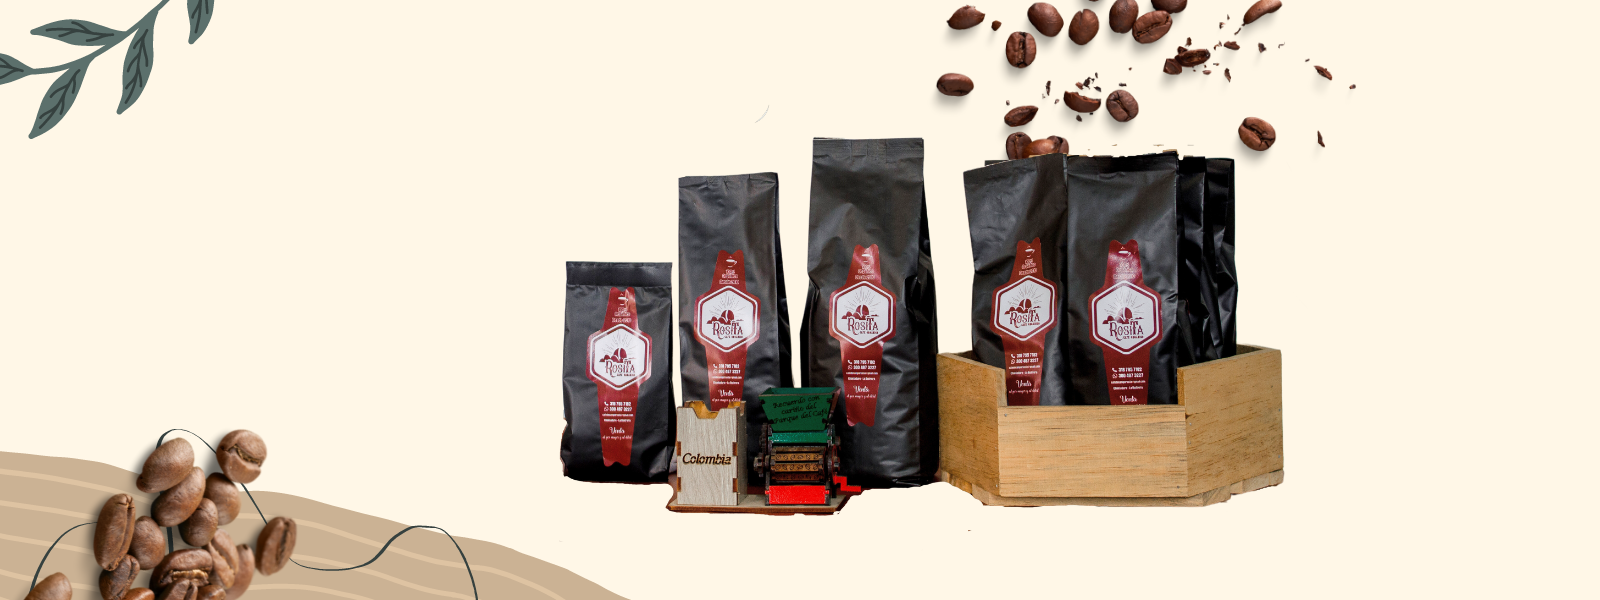
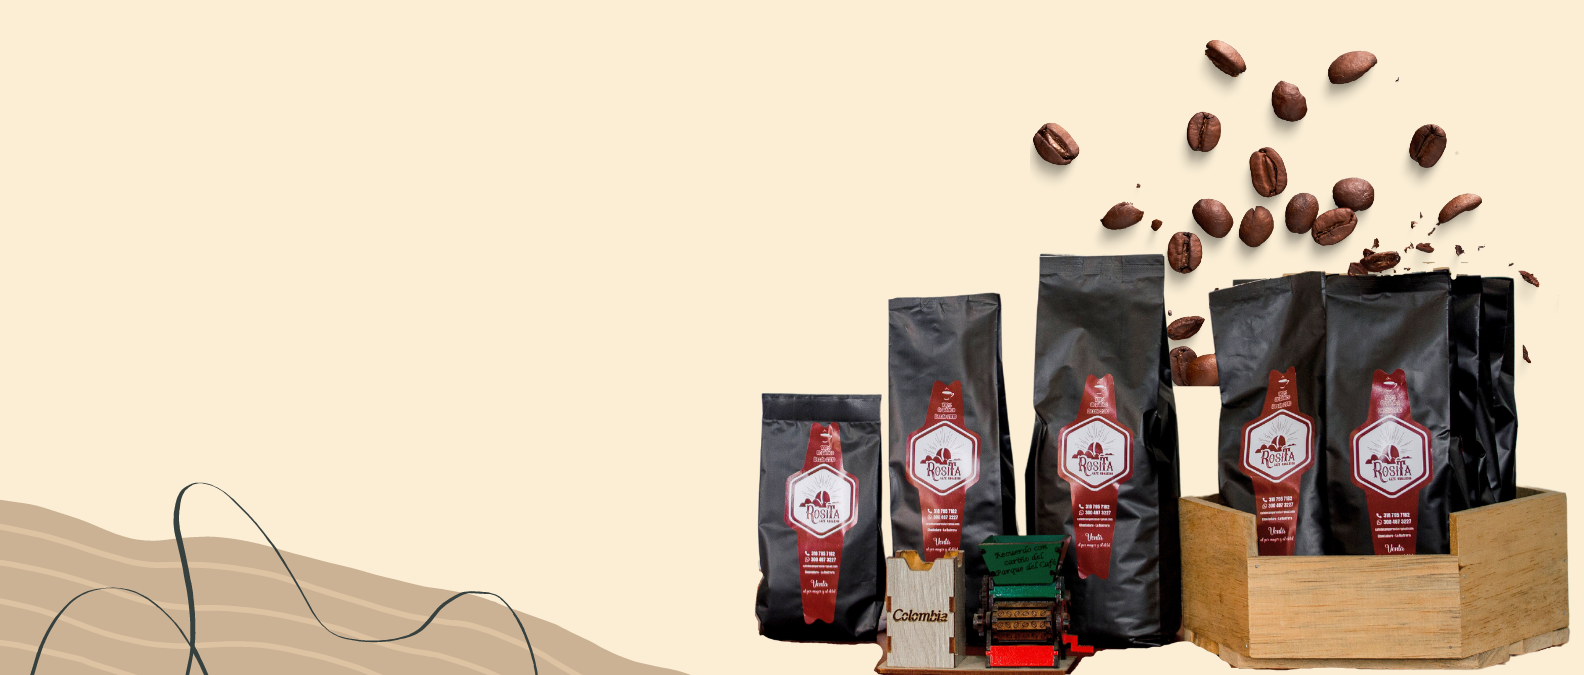
feat: Cambios en Pagos y Ux/Ui

diff --git a/src/app/protected/admin/statistic/pages/statistics/statistics.component.html b/src/app/protected/admin/statistic/pages/statistics/statistics.component.html
@@ -1,28 +1,33 @@
 
-  <div class="row g-4 mt-4 justify-content-around">
-    <div class="col-xs-12 col-sm-12 col-md-4 mb-3">
-      <mat-card class="example-card">
-        <mat-card-header class="justify-content-center">
-          <mat-card-title>Ganancias y Pérdidas</mat-card-title>
-        </mat-card-header>
-        <img mat-card-image class="mx-auto d-block statistic-image" src="assets/Ganancias.jpeg">
-        <mat-card-actions class="d-grid gap-2 col-6 mx-auto">
-          <button mat-raised-button (click)="navigateUrl('ganancias-perdidas')" class="mt-2 mb-2">Ingresar</button>
-        </mat-card-actions>
-      </mat-card>
+  <div class="row mt-4 justify-content-center"></div>
+    <div class="col-xs-12 col-sm-12 col-md-6 mb-3">
+      <div class="row justify-content-center">
+        <mat-card class="example-card">
+          <mat-card-header class="justify-content-center">
+            <mat-card-title>Ganancias y Pérdidas</mat-card-title>
+          </mat-card-header>
+          <img mat-card-image class="mx-auto d-block statistic-image" src="assets/Ganancias.jpeg" style="max-width: 100%; height: auto;">
+          <mat-card-actions class="d-grid gap-2 col-6 mx-auto">
+            <button mat-raised-button (click)="navigateUrl('ganancias-perdidas')" class="mt-2 mb-2">Ingresar</button>
+          </mat-card-actions>
+        </mat-card>
+      </div>
     </div>
-    <div class="col-xs-12 col-sm-12 col-md-3 mb-3">
-      <mat-card class="example-card">
-      <mat-card-header class="justify-content-center">
-          <mat-card-title>Total de Ventas</mat-card-title>
-        </mat-card-header>
-        <img mat-card-image class="mx-auto d-block statistic-image" src="assets/amoung.png">
-        <mat-card-actions class="d-grid gap-2 col-6 mx-auto">
-          <button mat-raised-button (click)="navigateUrl('total-ventas')" class="mt-2 mb-2">Ingresar</button>
-        </mat-card-actions>
-      </mat-card>
+    <div class="col-xs-12 col-sm-12 col-md-6 mb-3">
+      <div class="row justify-content-center">
+        <mat-card class="example-card">
+          <mat-card-header class="justify-content-center">
+            <mat-card-title>Total de Ventas</mat-card-title>
+          </mat-card-header>
+          <img mat-card-image class="mx-auto d-block statistic-image" src="assets/amoung.png" style="max-width: 100%; height: auto;">
+          <mat-card-actions class="d-grid gap-2 col-6 mx-auto">
+            <button mat-raised-button (click)="navigateUrl('total-ventas')" class="mt-2 mb-2">Ingresar</button>
+          </mat-card-actions>
+        </mat-card>
+      </div>
     </div>
-    <div class="col-xs-12 col-sm-12 col-md-3 mb-3">
+ 
+    <!-- <div class="col-xs-12 col-sm-12 col-md-3 mb-3">
       <mat-card class="example-card">
         <mat-card-header class="justify-content-center">
           <mat-card-title>Productos Más Vendidos</mat-card-title>
@@ -31,6 +36,6 @@
         <mat-card-actions class="d-grid gap-2 col-6 mx-auto">
           <button mat-raised-button (click)="navigateUrl('productos-vendidos')" class="mt-2 mb-2">Ingresar</button>
         </mat-card-actions>
-      </mat-card>
-    </div>
-  </div>
+      </mat-card> -->
+    
+

diff --git a/src/app/auth/pages/register/register.component.ts b/src/app/auth/pages/register/register.component.ts
@@ -36,6 +36,50 @@ export class RegisterComponent {
     return ValidateFields.errorMsg(this.noValidField(field), this.miFormulario, field, namefield);
   }
 
+  openTermsModal() {
+    Swal.fire({
+      title: 'Términos y Condiciones',
+      html: `
+      <div style="max-height: 400px; overflow-y: auto;">
+        <p>1. Introducción</p>
+        <p>Al registrarte en nuestro sitio web Café Rosita, aceptas cumplir con los siguientes términos y condiciones. Si no estás de acuerdo, por favor, no completes el registro.</p>
+        <p>2. Requisitos de registro</p>
+        <p>Debes ser mayor de 18 años para registrarte.</p>
+        <p>Es necesario proporcionar información válida y actualizada, como tu nombre completo, dirección de correo electrónico y contraseña.</p>
+        <p>Mantén tus credenciales seguras. No nos hacemos responsables de accesos no autorizados a tu cuenta por compartir tu contraseña con terceros.</p>
+        <p>3. Uso de datos personales</p>
+        <p>Los datos proporcionados serán tratados según nuestra Política de Privacidad.</p>
+        <p>Usaremos tus datos para gestionar tu cuenta, procesar tus pedidos, y enviarte información promocional, si así lo autorizas.</p>
+        <p>4. Responsabilidad del usuario</p>
+        <p>Al registrarte, te comprometes a:</p>
+        <ul>
+          <li>No usar el sitio para actividades ilegales.</li>
+          <li>Proporcionar información verdadera y mantenerla actualizada.</li>
+          <li>No crear múltiples cuentas con fines fraudulentos.</li>
+        </ul>
+        <p>5. Derechos de la plataforma</p>
+        <p>Podemos suspender o cancelar tu cuenta si violas estos términos o detectamos actividades sospechosas.</p>
+        <p>Nos reservamos el derecho de realizar cambios en estos términos sin previo aviso. Cualquier cambio será publicado en nuestro sitio web.</p>
+        <p>6. Propiedad intelectual</p>
+        <p>Todo el contenido de Café Rosita es propiedad exclusiva de la empresa. Está prohibido el uso no autorizado.</p>
+        <p>7. Resolución de conflictos</p>
+        <p>Cualquier disputa relacionada con el uso del sitio web será resuelta conforme a las leyes de [tu país].</p>
+        <p>8. Contacto</p>
+        <p>Si tienes dudas, contáctanos en cafedecamporosita@gmail.com o al teléfono 3187957182 - 3004873227.</p>
+      </div>
+      `,
+      icon: 'info',
+      showCancelButton: true,
+      confirmButtonText: 'Aceptar',
+      cancelButtonText: 'Cancelar'
+    }).then((result) => {
+      if (result.isConfirmed) {
+        Swal.fire('Aceptado', 'Has aceptado los términos y condiciones.', 'success');
+      } else {
+        Swal.fire('Cancelado', 'No has aceptado los términos y condiciones.', 'error');
+      }
+    });
+  }
 
   registrar() {
     if (this.miFormulario.valid) {

diff --git a/src/app/protected/order/pages/create/create.component.html b/src/app/protected/order/pages/create/create.component.html
@@ -84,12 +84,13 @@
                 <div class="row g-2 justify-content-center mb-1 mt-1">
                   <label for="inputEmail3" class="col-sm-4 col-form-label">Comprobante</label>
                   <div class="col-sm-7">
-                    <select class="form-control" formControlName="receipt">
-                      <option value="accepted">Aceptar</option>
-                      <option value="denied">Negar</option>
-                    </select>
-                    <button  mat-raised-button color="primary" class="ms-2" style="position: absolute; left: 888px; top: 83px;"><i class="fa fa-download me-1"></i> Ver Documento</button>
-  
+    
+                  <button mat-raised-button color="primary" (click)="confirmReceipt()">
+                    <mat-icon>check_circle</mat-icon>Confirmar</button>
+                   
+                    
+  <button mat-raised-button color="primary" class="ms-2" style="position: absolute; left: 888px; top: 83px;" (click)="downloadImage()">
+    <mat-icon>download</mat-icon>Ver Documento</button>
                   </div>
                 </div>
               </div>

diff --git a/src/app/auth/pages/register/register.component.html b/src/app/auth/pages/register/register.component.html
@@ -1,6 +1,8 @@
 <div class="container mt-5 mb-5">
   <form class="form" [formGroup]="miFormulario" (ngSubmit)="registrar()">
-    <h2 class="form-title">Crear cuenta</h2>
+    <div class="form-title">
+      <img src="assets/logo_cafe_rosita.png" style="width: 210px; height: 90px;">
+    </div>
     <div class="form-container">
       <div class="form-group">
         <input type="text" class="form-input" formControlName="name" [class.is-invalid]="noValidField('name')"
@@ -49,7 +51,7 @@
         </div>
   
       <div class="form-group exception">
-          <input type="checkbox" class="form-check-input" id="exampleCheck1">
+          <input type="checkbox" class="form-check-input" id="exampleCheck1" (click)="openTermsModal()">
           <label class="form-check-label" for="exampleCheck1">Aceptar condiciones y restricciones</label>
       </div>
         <button type="submit" class="form-submit exception" [disabled]="miFormulario.invalid">Registrarse</button>

diff --git a/src/app/protected/order/pages/create/create.component.ts b/src/app/protected/order/pages/create/create.component.ts
@@ -39,6 +39,30 @@ export class CreateComponent implements OnInit {
 
   }
 
+  downloadImage() {
+    const link = document.createElement('a');
+    link.href = 'assets/comprobante_img.jpg';
+    link.download = 'comprobante_img.jpg';
+    link.click();
+  }
+
+  confirmReceipt(){
+    Swal.fire({
+      title: '¿Estás seguro?',
+      text: "¿Estás seguro de confirmar este comprobante?",
+      icon: 'warning',
+      showCancelButton: true,
+      confirmButtonColor: '#3085d6',
+      cancelButtonColor: '#d33',
+      confirmButtonText: 'Sí, confirmar'
+    }).then((result) => {
+      if (result.isConfirmed) {
+        Swal.fire(  '¡Confirmado!', 'El comprobante ha sido confirmado.', 'success');
+      }
+    });
+
+  }
+
   ngOnInit() {
     this.showCustomer = this.authService.user.rol! === 'cliente' ? false : true;
     if (this.router.url.includes('ver')) {

diff --git a/src/app/auth/pages/login/login.component.html b/src/app/auth/pages/login/login.component.html
@@ -1,7 +1,9 @@
 
 <div class="container mt-5 mb-5">
   <form class="form" (ngSubmit)="login()" [formGroup]="miFormulario">
-    <h2 class="form-title">Acceder</h2>
+    <div class="form-title">
+      <img src="assets/logo_cafe_rosita.png" style="width: 210px; height: 90px;">
+    </div>
     <div class="form-container">
       <div class="form-group">
         <input type="text" class="form-input" formControlName="email" placeholder="Ingrese el correo">

diff --git a/src/app/shop/css/style.css b/src/app/shop/css/style.css
@@ -5,7 +5,7 @@
 .home{
   width:100%;
   min-height:92vh;
-  background: url("/assets/fondoPrincipal.png");
+  background: url("/assets/fondoPrincipal-1.png");
   background-repeat: no-repeat;
   background-size: cover;
 }
